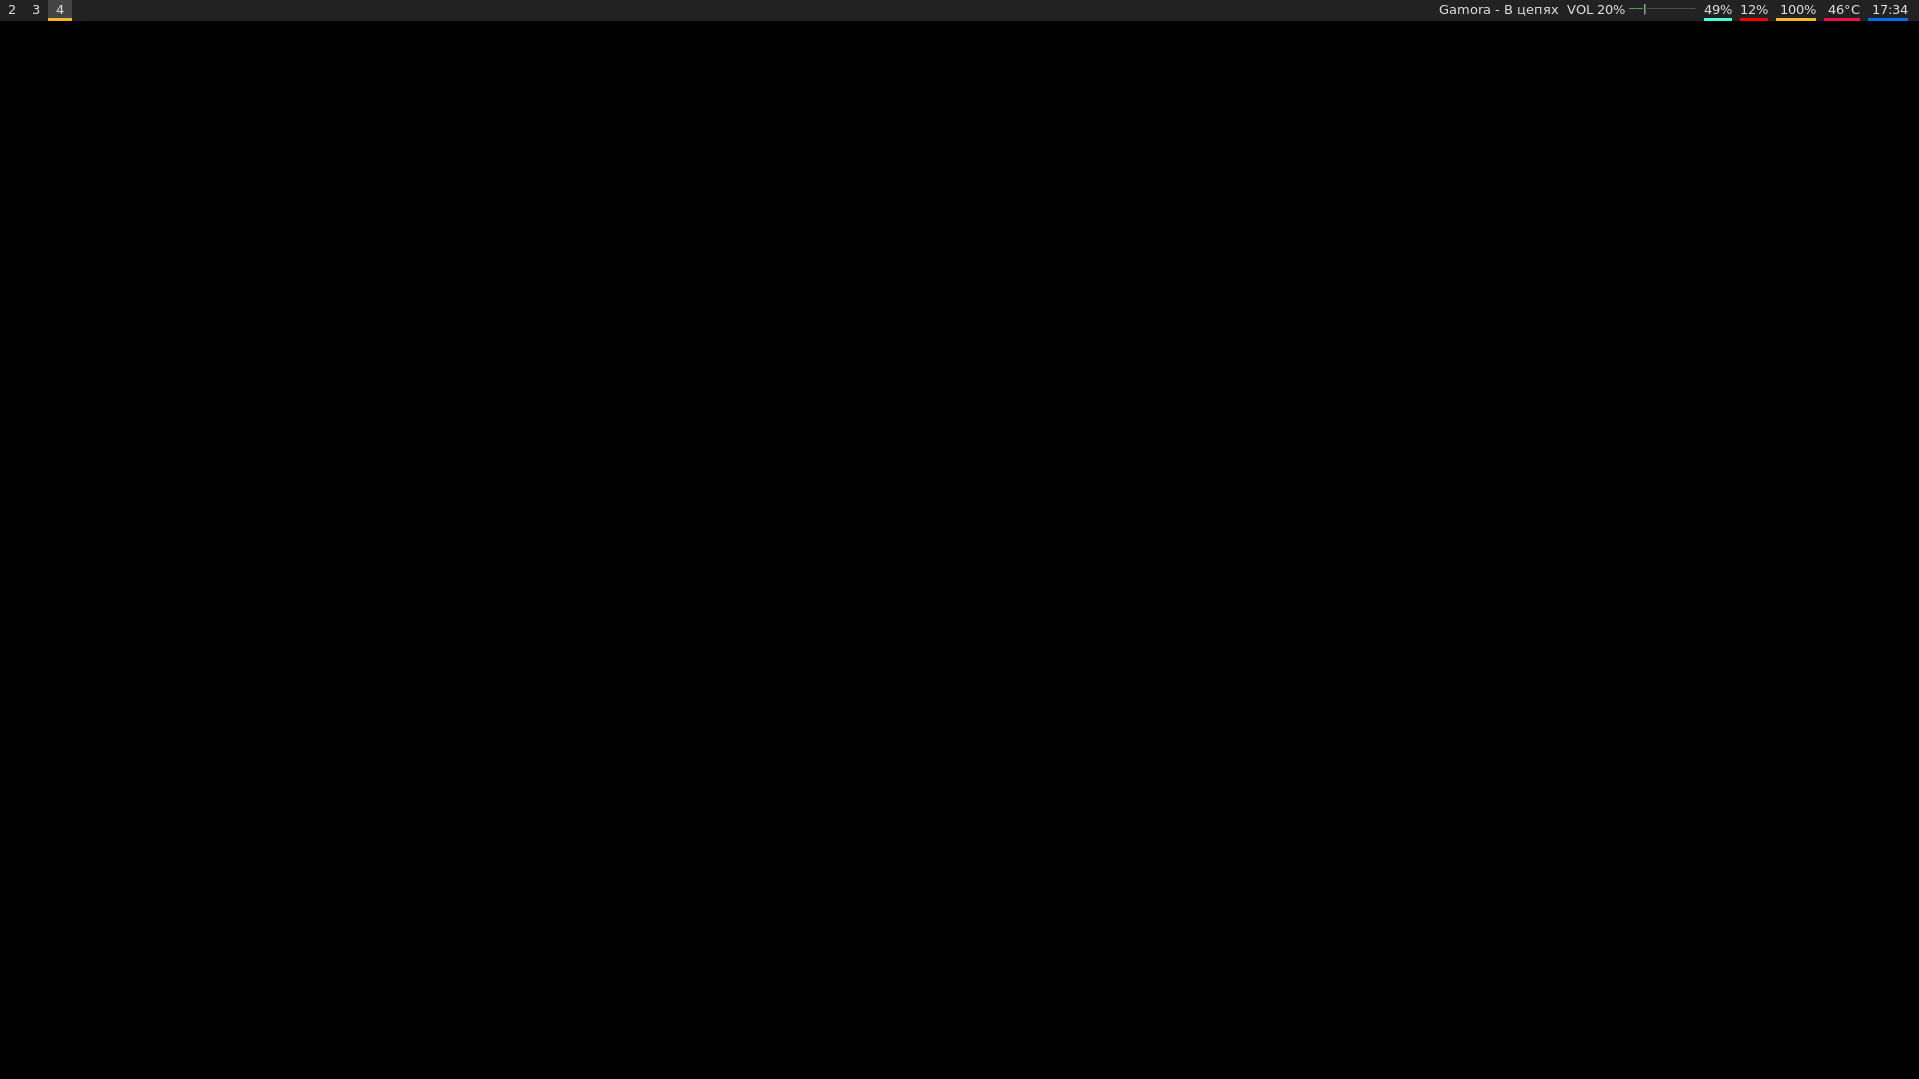
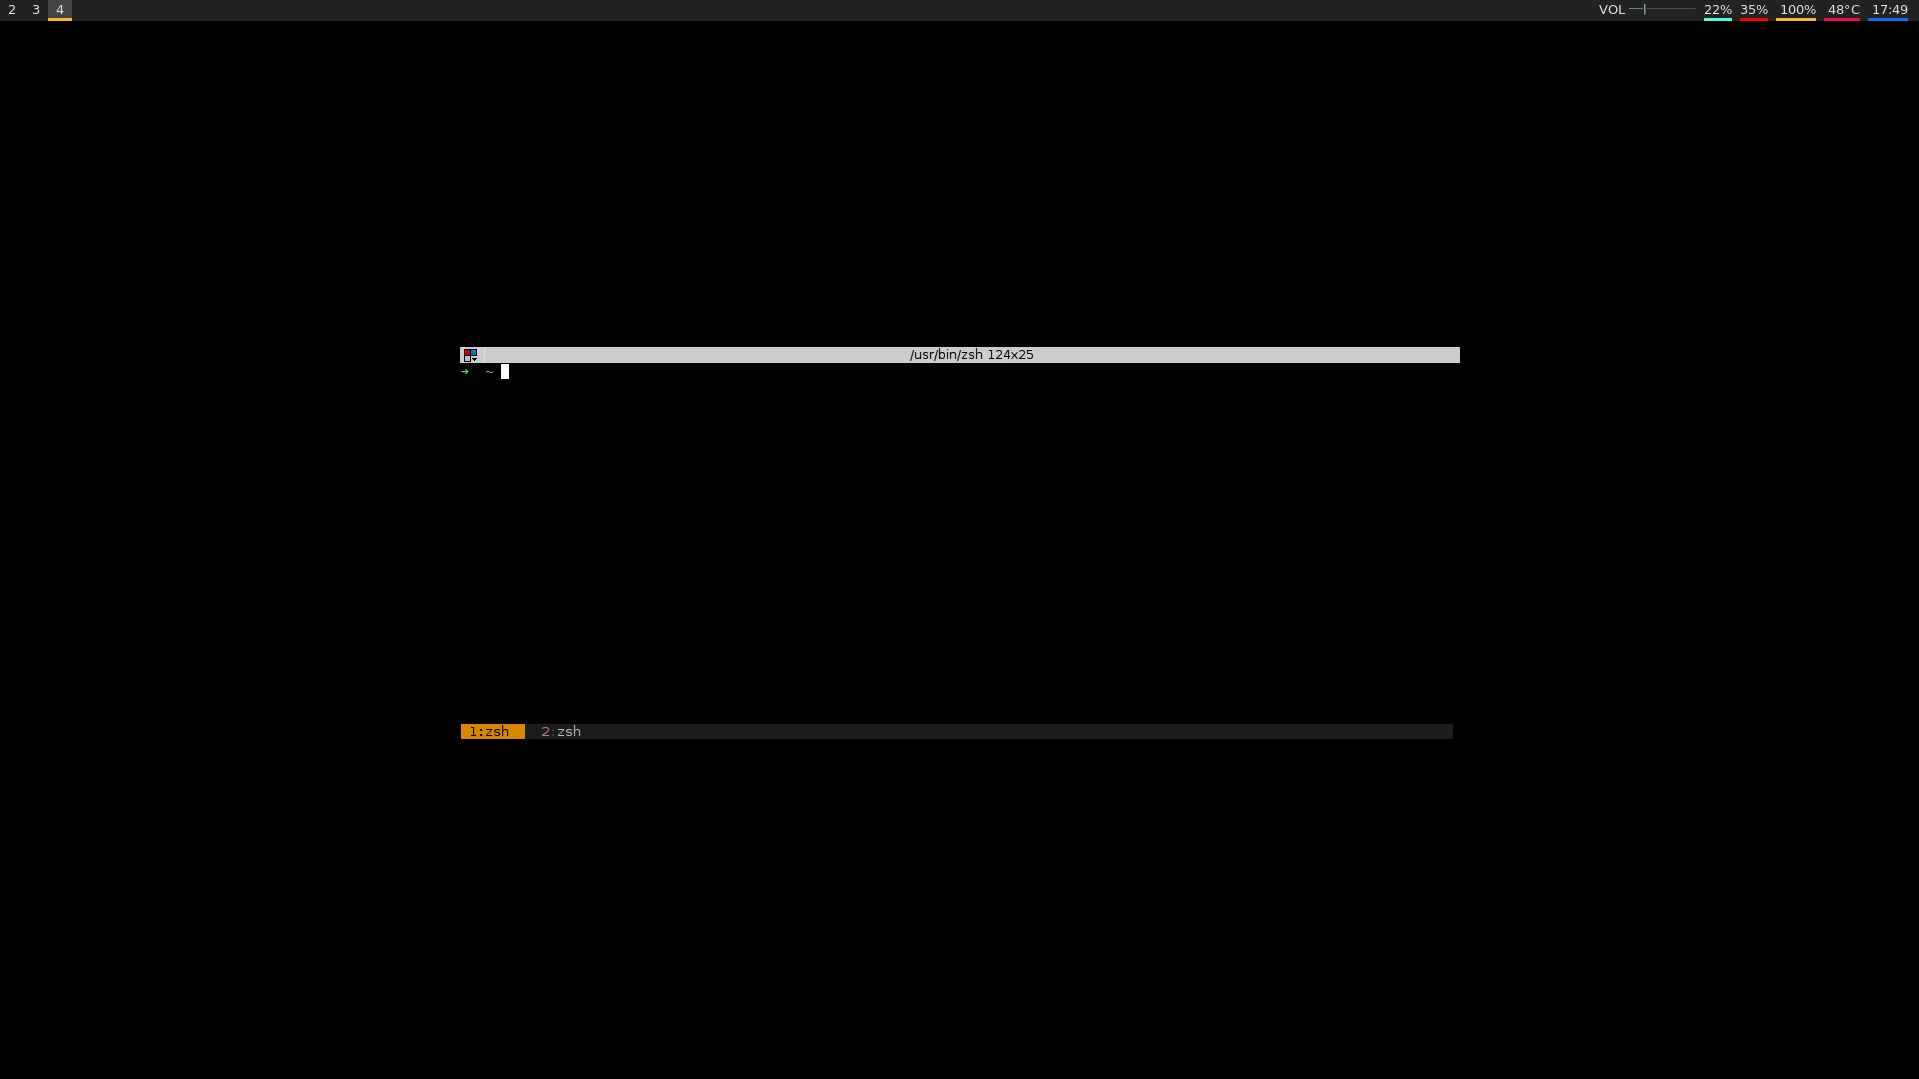
Added tmux

Changed region(s): [[0.246, 0.6728, 0.7686, 0.7034], [0.246, 0.3058, 0.7686, 0.3364], [0.7994, 0.0, 0.8301, 0.0306]]

diff --git a/README.md b/README.md
@@ -14,11 +14,10 @@ I also use Polybar as status bar.<br>
 
 #### Installation
 
-> I'm using Linux Mint 18.3 <br />
-copy *i3* folder to ~/.config <br />
+>Copy *i3* folder to ~/.config <br />
 and *i3blocks* folder to /usr/share <br />
 
-#### Dependences
+#### i3 Dependences
 > i3 <br />
 i3-wm <br />
 i3lock <br />
